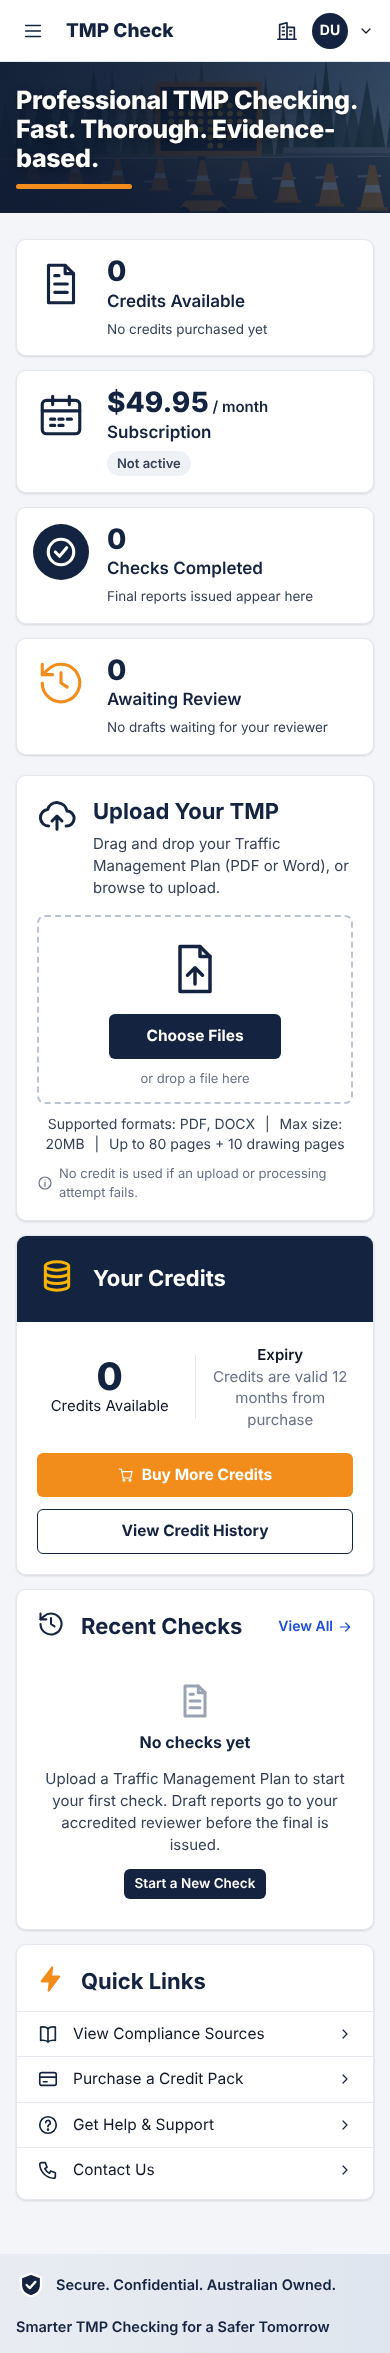
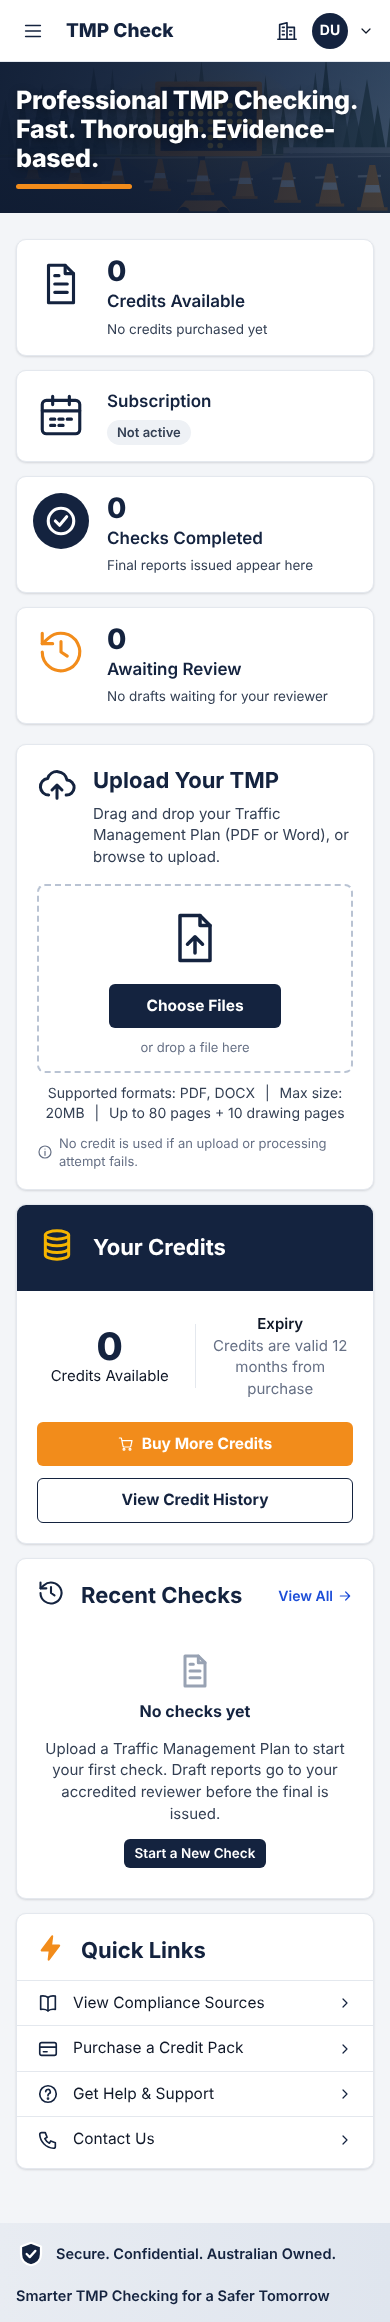
Dashboard: remove price from Subscription tile (Owner instruction)
Claude-Session: https://claude.ai/code/session_01FVaWCt5gj4brzhm59qDLsq

diff --git a/src/portal/templates/pages/dashboard.html b/src/portal/templates/pages/dashboard.html
@@ -31,7 +31,6 @@
   <article class="card stat">
     <div class="stat-ic navy">{{ icon("calendar") }}</div>
     <div class="stat-body">
-      <div class="stat-num">{{ money(d.subscription.price) }}<small> / month</small></div>
       {% if d.subscription.status == "active" %}
         <div class="stat-label">Subscription</div>
         <span class="pill ok">Active</span>

diff --git a/src/portal/services.py b/src/portal/services.py
@@ -6,7 +6,6 @@ from datetime import datetime, timezone
 from sqlalchemy import func, select
 from sqlalchemy.orm import Session
 
-from .config import settings
 from .db import Check, CheckStatus, CreditLedger, Finding, Organisation, utcnow
 
 SEVERITIES = ["Critical", "Major", "Moderate", "Minor", "Query"]
@@ -97,7 +96,6 @@ def recent_checks(db: Session, org_id: int, limit: int = 5) -> list[dict]:
 
 def dashboard(db: Session, org: Organisation, now: datetime | None = None) -> dict:
     now = now or utcnow()
-    cfg = settings()
     bal = credit_balance(db, org.id, now)
 
     final = select(Check).where(Check.org_id == org.id, Check.status == CheckStatus.final_issued)
@@ -111,8 +109,7 @@ def dashboard(db: Session, org: Organisation, now: datetime | None = None) -> di
 
     return {
         "credits": bal,
-        "subscription": {"status": org.subscription_status.value,
-                         "price": cfg["subscription"]["price"]},
+        "subscription": {"status": org.subscription_status.value},
         "checks_completed": completed,
         "checks_this_month": this_month,
         "awaiting_review": awaiting,

diff --git a/PROJECT_LOG.md b/PROJECT_LOG.md
@@ -151,3 +151,4 @@ Limitations: no authentication (app refuses to start unless TMPCHECK_ENV=local);
 - A-23: manual-invoice credit requests; 5-pack $745 offered (P-14, P-05 resolved). `CR-5 offered: true`.
 - A-24: credit consumed on draft delivery to reviewer (P-15 resolved). S3 unblocked; P-16 (savings baseline) remains, card defaults to empty state.
 - A-25: Potential Savings card removed; replaced by "Awaiting Review" card (P-16 resolved). All dashboard decisions closed; S2 next.
+- Owner instruction: subscription price removed from dashboard Subscription tile (status only). Price still shown on Credits & Billing.
